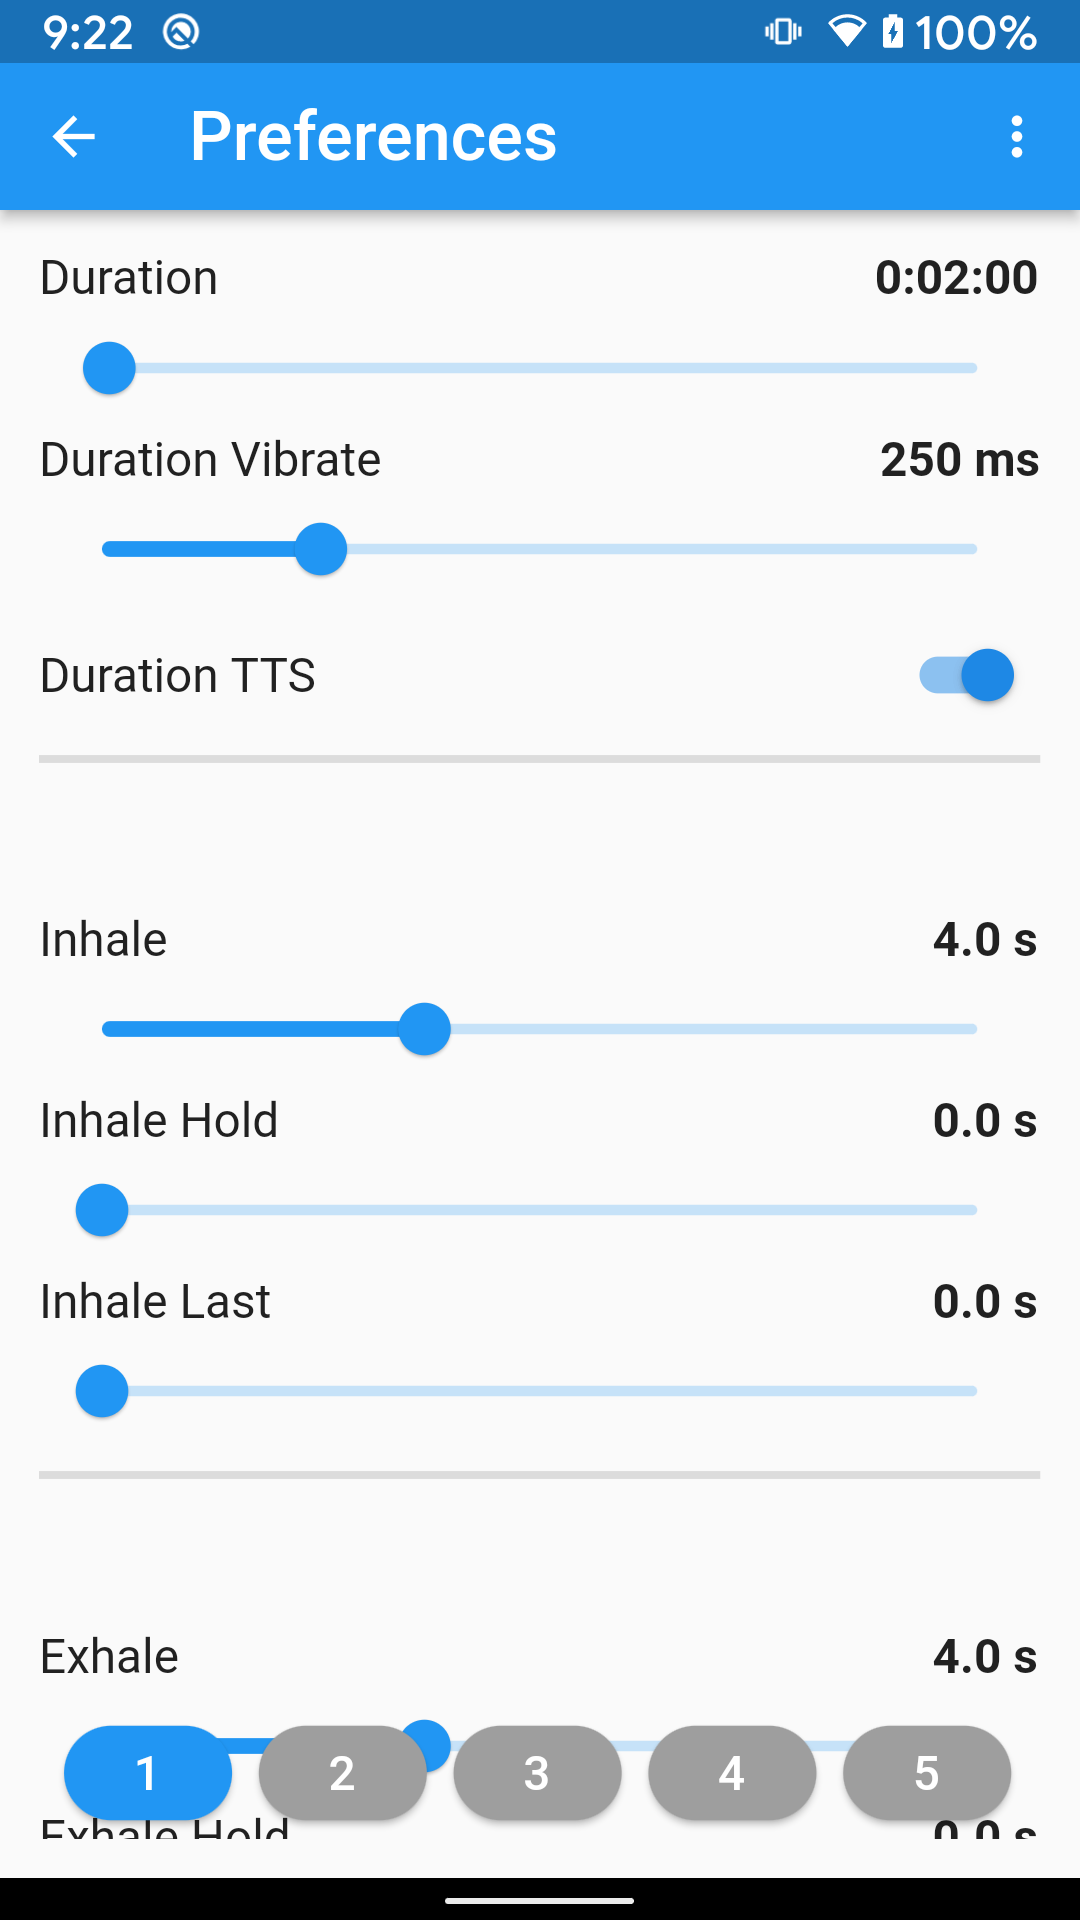
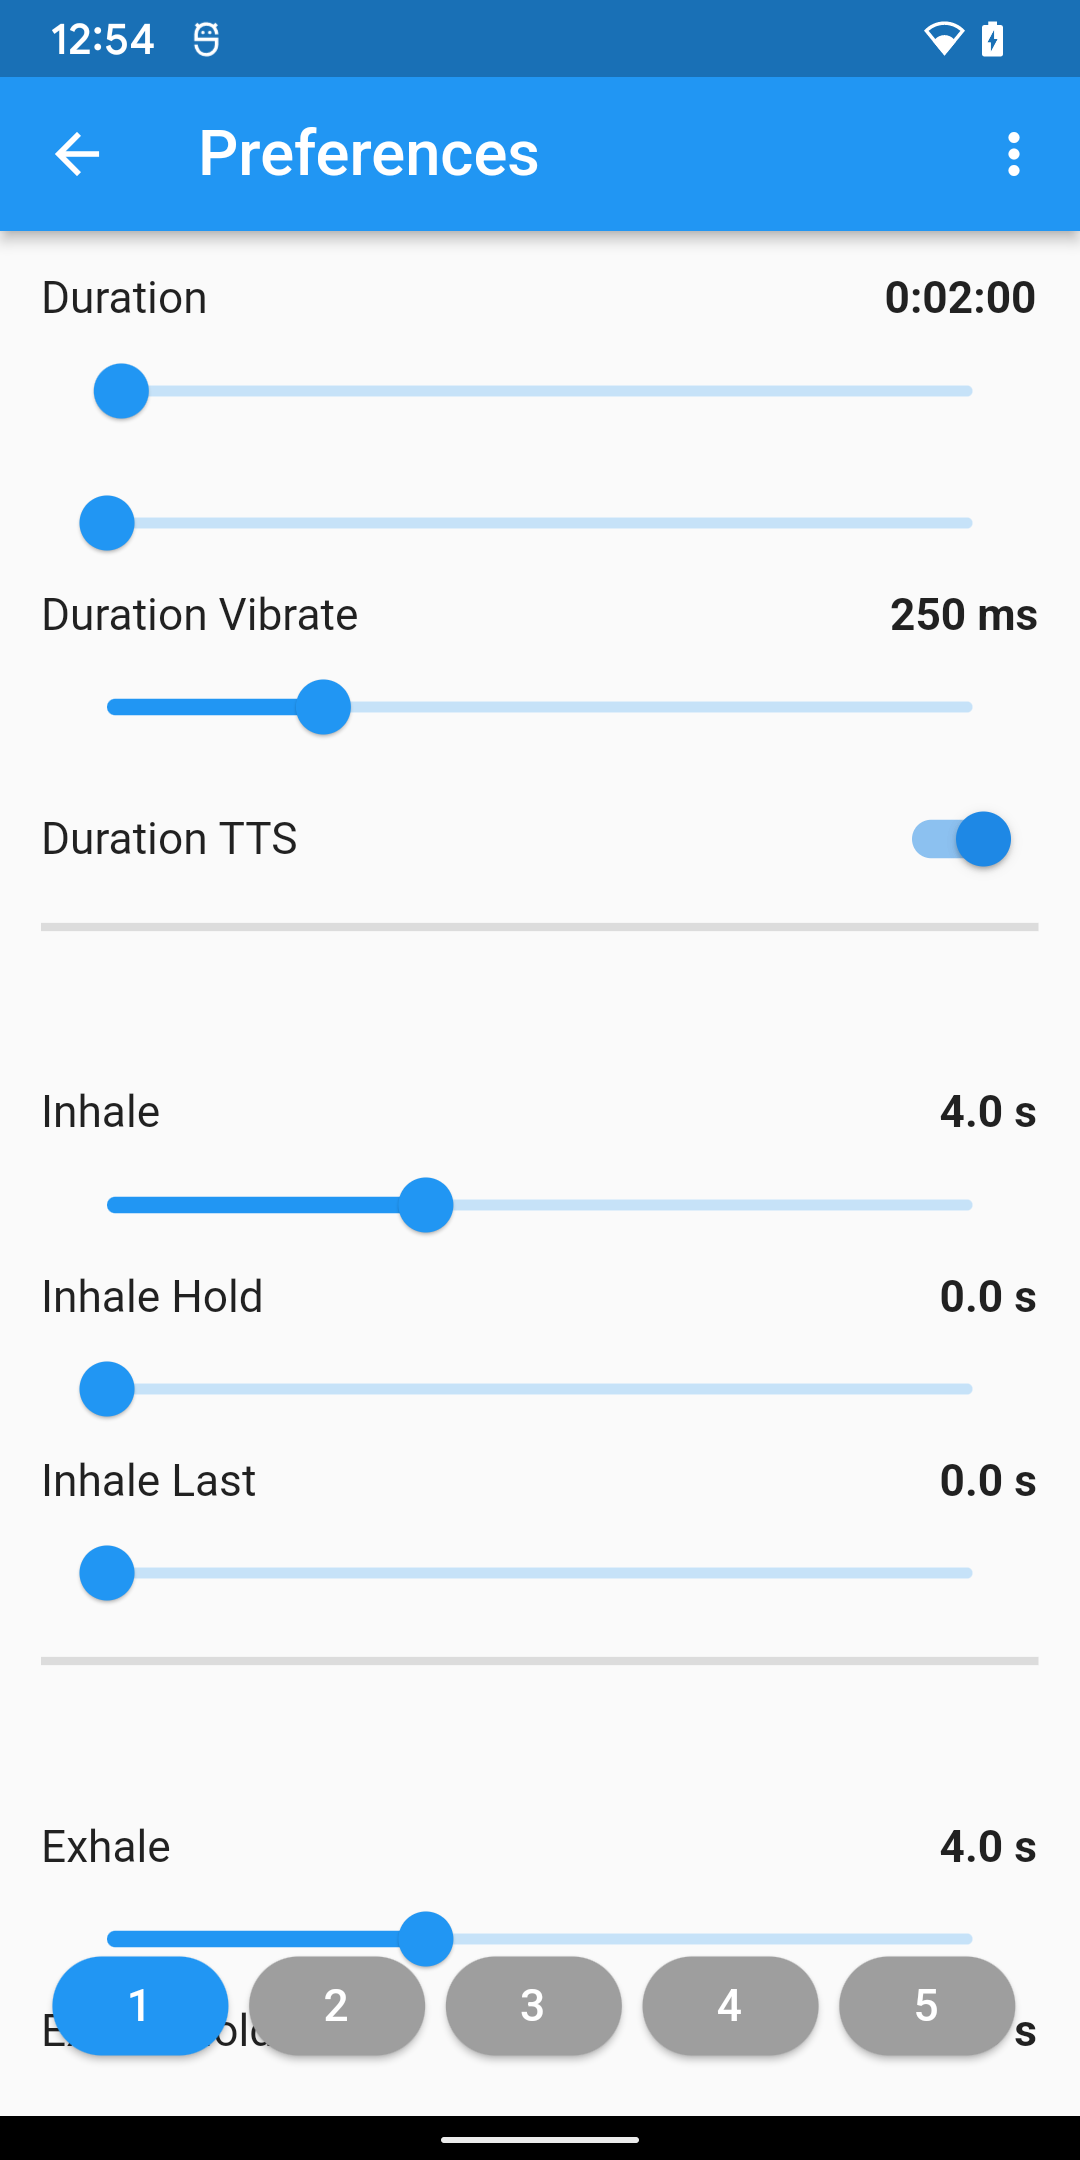
#15: duration preference in minutes and seconds

diff --git a/lib/preferences_widget.dart b/lib/preferences_widget.dart
@@ -22,16 +22,18 @@ class PreferencesWidget extends StatefulWidget {
 }
 
 class _PreferencesWidgetState extends State<PreferencesWidget> {
-  late double _durationD = DURATION.toDouble() / Duration.secondsPerMinute,
-      _inhale0 = INHALE.toDouble() / Duration.millisecondsPerSecond * 10,
-      _inhale1 = INHALE_HOLD.toDouble() / Duration.millisecondsPerSecond * 10,
-      _inhale2 = INHALE_LAST.toDouble() / Duration.millisecondsPerSecond * 10,
-      _exhale0 = EXHALE.toDouble() / Duration.millisecondsPerSecond * 10,
-      _exhale1 = EXHALE_HOLD.toDouble() / Duration.millisecondsPerSecond * 10,
-      _exhale2 = EXHALE_LAST.toDouble() / Duration.millisecondsPerSecond * 10,
-      _vibrateDurationD = VIBRATE_DURATION.toDouble() / 10,
-      _vibrateBreathD = VIBRATE_BREATH.toDouble() / 10;
-  late bool _durationTts = DURATION_TTS, _breathTts = BREATH_TTS;
+  static const double MINIMUM_BREATH = 5.0;
+  late double _durationMinutes = 0.0,
+      _durationSeconds = 0.0,
+      _inhale0 = MINIMUM_BREATH,
+      _inhale1 = 0.0,
+      _inhale2 = 0.0,
+      _exhale0 = MINIMUM_BREATH,
+      _exhale1 = 0.0,
+      _exhale2 = 0.0,
+      _vibrateDurationD = 0.0,
+      _vibrateBreathD = 0.0;
+  late bool _durationTts = false, _breathTts = false;
 
   @override
   initState() {
@@ -54,7 +56,10 @@ class _PreferencesWidgetState extends State<PreferencesWidget> {
     Preference preference = widget.preferences.get(0);
 
     setState(() {
-      _durationD = preference.duration.toDouble() / Duration.secondsPerMinute;
+      Duration duration = Duration(seconds: preference.duration);
+      _durationMinutes = duration.inMinutes.toDouble();
+      _durationSeconds =
+          (duration.inSeconds % Duration.secondsPerMinute).toDouble();
       _inhale0 =
           preference.inhale[0].toDouble() / Duration.millisecondsPerSecond * 10;
       _inhale1 =
@@ -384,28 +389,72 @@ class _PreferencesWidgetState extends State<PreferencesWidget> {
                   Container(
                       width: MediaQuery.of(context).size.width - 30,
                       child: Slider(
-                        key: Key(DURATION_TEXT),
-                        value: _durationD,
-                        min: 1,
+                        key: Key(DURATION_MINUTES_TEXT),
+                        value: _durationMinutes,
+                        min: 0,
                         max: 120,
-                        divisions: 120,
+                        divisions: 121,
                         onChanged: (double value) {
                           setState(() {
-                            _durationD = value;
-                            preference.duration =
-                                (value.round() * Duration.secondsPerMinute)
-                                    .toInt();
+                            _durationMinutes = value;
+                            preference.duration = Duration(
+                                    minutes: _durationMinutes.toInt(),
+                                    seconds: _durationSeconds.toInt())
+                                .inSeconds
+                                .toInt();
                           });
                         },
                         onChangeEnd: (double value) {
                           setState(() {
-                            preference.duration =
-                                (value.round() * Duration.secondsPerMinute)
-                                    .toInt();
+                            preference.duration = Duration(
+                                    minutes: _durationMinutes.toInt(),
+                                    seconds: _durationSeconds.toInt())
+                                .inSeconds
+                                .toInt();
                             preference.save();
                             widget.callback();
                           });
-                          debugPrint("$DURATION_TEXT: ${preference.duration}");
+                          debugPrint(
+                              "$DURATION_SECONDS_TEXT: ${preference.duration}");
+                        },
+                      )),
+                ],
+              ),
+
+              // Duration seconds
+              Row(
+                mainAxisAlignment: MainAxisAlignment.center,
+                children: [
+                  Container(
+                      width: MediaQuery.of(context).size.width - 30,
+                      child: Slider(
+                        key: Key(DURATION_SECONDS_TEXT),
+                        value: _durationSeconds,
+                        min: 0,
+                        max: 59,
+                        divisions: 60,
+                        onChanged: (double value) {
+                          setState(() {
+                            _durationSeconds = value;
+                            preference.duration = Duration(
+                                    minutes: _durationMinutes.toInt(),
+                                    seconds: _durationSeconds.toInt())
+                                .inSeconds
+                                .toInt();
+                          });
+                        },
+                        onChangeEnd: (double value) {
+                          setState(() {
+                            preference.duration = Duration(
+                                    minutes: _durationMinutes.toInt(),
+                                    seconds: _durationSeconds.toInt())
+                                .inSeconds
+                                .toInt();
+                            preference.save();
+                            widget.callback();
+                          });
+                          debugPrint(
+                              "$DURATION_SECONDS_TEXT: ${preference.duration}");
                         },
                       )),
                 ],
@@ -504,9 +553,9 @@ class _PreferencesWidgetState extends State<PreferencesWidget> {
                       child: Slider(
                         key: Key(INHALE_TEXT),
                         value: _inhale0,
-                        min: 5,
+                        min: MINIMUM_BREATH,
                         max: 100,
-                        divisions: 95,
+                        divisions: 100 - MINIMUM_BREATH.toInt(),
                         onChanged: (double value) {
                           setState(() {
                             _inhale0 = value;
@@ -658,9 +707,9 @@ class _PreferencesWidgetState extends State<PreferencesWidget> {
                       child: Slider(
                         key: Key(EXHALE_TEXT),
                         value: _exhale0,
-                        min: 5,
+                        min: MINIMUM_BREATH,
                         max: 100,
-                        divisions: 95,
+                        divisions: 100 - MINIMUM_BREATH.toInt(),
                         onChanged: (double value) {
                           setState(() {
                             _exhale0 = value;

diff --git a/test/preferences_widget_test.dart b/test/preferences_widget_test.dart
@@ -55,15 +55,23 @@ Future<void> main() async {
 
       Preference preference = preferences.get(0);
 
-      // Drag duration slider
+      // Drag duration minutes slider
       expect(
           find.textContaining(
               "${getDurationString(Duration(seconds: DURATION))}"),
           findsOneWidget);
-      await tester.drag(find.byKey(Key(DURATION_TEXT)), const Offset(0.0, 0.0));
+      await tester.drag(
+          find.byKey(Key(DURATION_MINUTES_TEXT)), const Offset(0.0, 0.0));
       await tester.pumpAndSettle();
-      expect(preference.duration, 3660);
-      expect(find.bySemanticsLabel(RegExp("1:01:00")), findsOneWidget);
+      expect(preference.duration, 3600);
+      expect(find.bySemanticsLabel(RegExp("1:00:00")), findsOneWidget);
+
+      // Drag duration seconds slider
+      await tester.drag(
+          find.byKey(Key(DURATION_SECONDS_TEXT)), const Offset(0.0, 0.0));
+      await tester.pumpAndSettle();
+      expect(preference.duration, 3629);
+      expect(find.bySemanticsLabel(RegExp("1:00:29")), findsOneWidget);
 
       // Drag vibrate duration slider
       expect(find.textContaining("$VIBRATE_DURATION ms"), findsOneWidget);
@@ -112,7 +120,8 @@ Future<void> main() async {
       expect(find.textContaining("5.0 s"), findsWidgets);
 
       // Drag exhale slider
-      await tester.ensureVisible(find.byKey(Key(EXHALE_TEXT)));
+      await tester
+          .ensureVisible(find.byKey(Key(EXHALE_TEXT), skipOffstage: false));
       await tester.pumpAndSettle();
       expect(
           find.textContaining("${(EXHALE / Duration.millisecondsPerSecond)} s"),
@@ -172,7 +181,7 @@ Future<void> main() async {
 
         // Verify preference
         preference = preferences.get(i);
-        expect(preference.duration, 3660);
+        expect(preference.duration, 3629);
         expect(preference.vibrateDuration, 500);
         expect(preference.durationTts, !DURATION_TTS);
         expect(preference.inhale, [5300, 5000, 5000]);

diff --git a/lib/constants.dart b/lib/constants.dart
@@ -15,6 +15,8 @@ const String DATE_FORMAT = "yyyy-MM-dd h:mm a",
     INHALE_LAST_TEXT = "Inhale Last",
     EXHALE_LAST_TEXT = "Exhale Last",
     DURATION_TEXT = "Duration",
+    DURATION_MINUTES_TEXT = "Duration Minutes",
+    DURATION_SECONDS_TEXT = "Duration Seconds",
     DURATION_VIBRATE_TEXT = "Duration Vibrate",
     DURATION_TTS_TEXT = "Duration TTS",
     BREATH_VIBRATE_TEXT = "Breath Vibrate",
